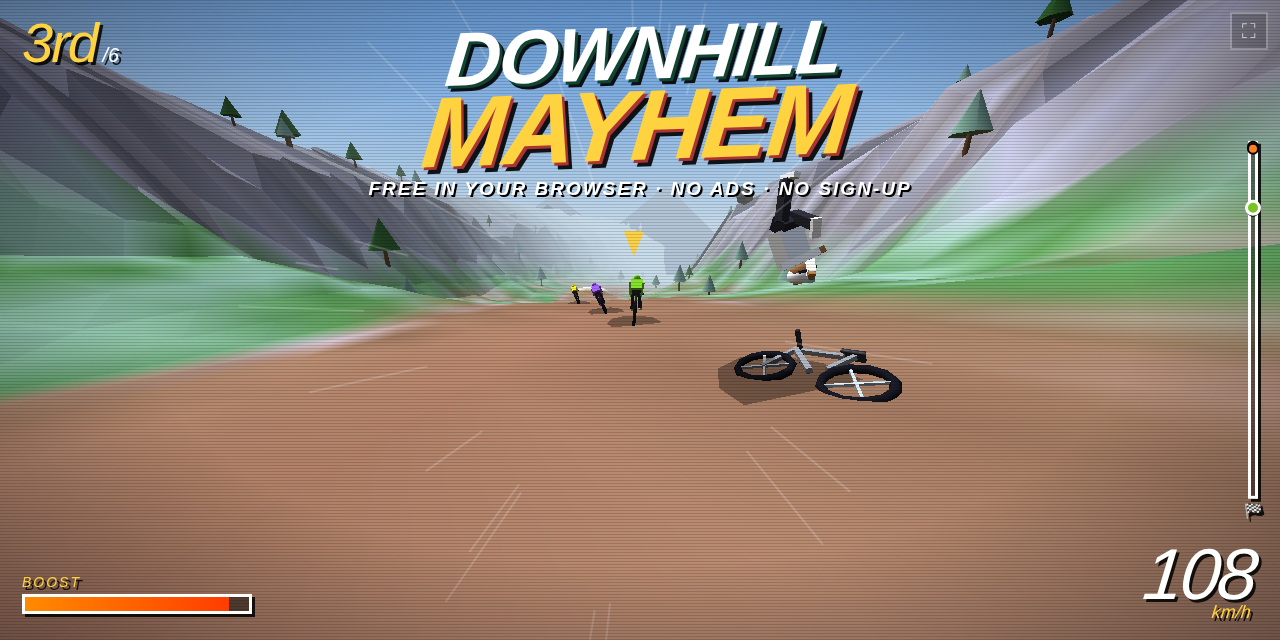
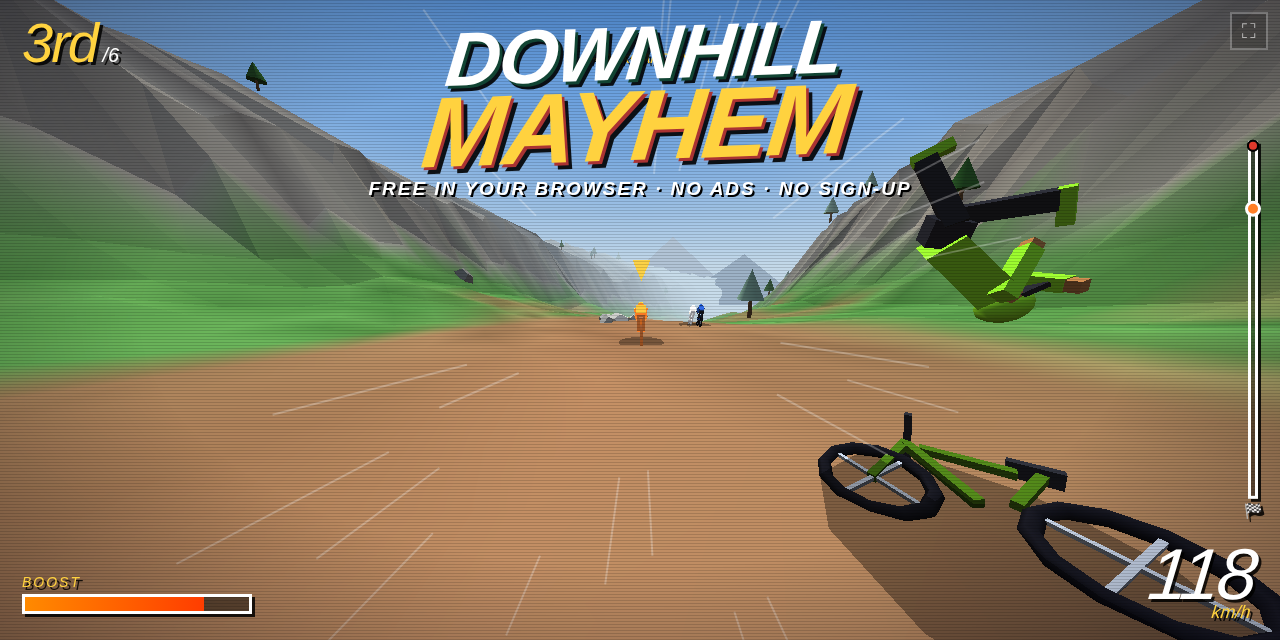
Regenerate demo GIF and social card on the current build (ROCKGARDEN)
Both media predated rock gardens and the new mountains. Re-shot on
ROCKGARDEN — the wide, steep boulder-garden canyon — so the front-door
assets show off the new content:

- demo.gif: the all-gas arc (boost → Superman → boot a rival at speed →
  they want revenge → red-glow avenger runs the player down → payback
  wipeout), now down the ROCKGARDEN canyon. 2.96 MB.
- social-card.png: the 1280×640 hero card — boosting at speed, a rival
  taking the boot mid-air, logo + tagline — on the same canyon.
- README GIF alt-text updated to match (and no longer names a specific
  rival, since the field is now shuffle-dealt from the 20-name roster).

Claude-Session: https://claude.ai/code/session_012EYQ48rDeCTBKNpKg6XZBk

diff --git a/README.md b/README.md
@@ -6,7 +6,7 @@ that charge a boost meter and fists (and boots) that settle position disputes.
 
 <p align="center">
   <a href="https://pranshuparmar.github.io/downhill-mayhem/">
-    <img src="media/demo.gif" alt="Twelve seconds of DOWNHILL MAYHEM: a 130 km/h boost into a ramp, a Superman over the pack, kicking DIESEL off his bike at speed — and DIESEL running the player down for payback" width="480">
+    <img src="media/demo.gif" alt="Twelve seconds of DOWNHILL MAYHEM down the ROCKGARDEN canyon: a boost into a ramp, a Superman over the pack, booting a rival off their bike at speed — then that rival running the player down for payback" width="480">
   </a>
   <br>
   <b><a href="https://pranshuparmar.github.io/downhill-mayhem/">▶ PLAY NOW — free, in your browser</a></b>